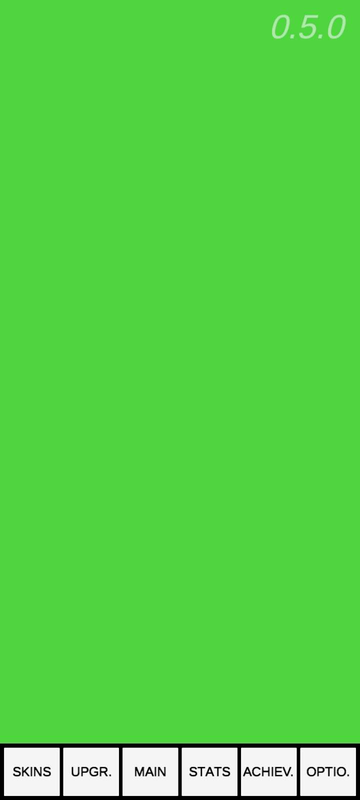
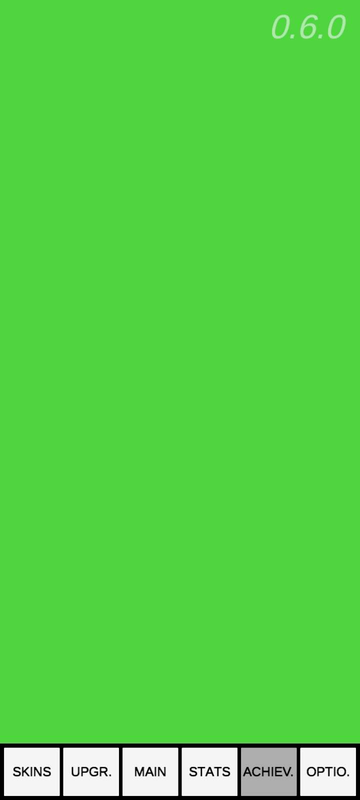
F6X THE GOLDEN TOUCH 0.6.0
Add Highlight Selected Screen Feature
Update ScreensMenu.cs

Changed region(s): [[0.6722, 0.9062, 0.825, 1.0], [0.825, 0.0312, 0.8556, 0.0625]]

diff --git a/F6X THE GOLDEN TOUCH/Assets/Scripts/Screens/ScreensMenu.cs b/F6X THE GOLDEN TOUCH/Assets/Scripts/Screens/ScreensMenu.cs
@@ -1,14 +1,65 @@
 using UnityEngine;
+using UnityEngine.UI;
 
 public class ScreensMenu : MonoBehaviour
 {
-    public GameObject[] screens;
+    [Header("Screens Menu Parameters")]
+    public Color currentScreenColor;
+
+    private int currentScreen;
+    private GameObject[] screens;
+    private GameObject[] screensButtons;
+
+    private void Awake()
+    {
+        InitializeComponents();
+        InitializeVariables();
+    }
+
+    private void InitializeComponents()
+    {
+        InitializeScreens();
+        InitializeScreensButtons();
+    }
+
+    private void InitializeScreens()
+    {
+        screens = new GameObject[6];
+        for (int i = 0; i <= 5; i++)
+            screens[i] = transform.parent.transform.GetChild(i).gameObject;
+
+    }
+
+    private void InitializeScreensButtons()
+    {
+        screensButtons = new GameObject[6];
+        for (int i = 0; i <= 5; i++)
+            screensButtons[i] = transform.GetChild(i).gameObject;
+    }
+
+    private void InitializeVariables()
+    {
+        currentScreen = 2;
+    }
 
     private void ActiveScreen(int screenNumber)
     {
-        foreach (GameObject screen in screens)
-            screen.SetActive(false);
-        screens[screenNumber].SetActive(true);
+        currentScreen = screenNumber;
+        for (int i = 0; i <= 5; i++)
+        {
+            if (i == screenNumber)
+            {
+                screens[i].SetActive(true);
+                screensButtons[i].GetComponent<Image>().color = currentScreenColor;
+                screensButtons[i].GetComponent<Button>().enabled = false;
+            }
+            else
+            {
+                screens[i].SetActive(false);
+                screensButtons[i].GetComponent<Image>().color = Color.white;
+                screensButtons[i].GetComponent<Button>().enabled = true;
+            }
+        }
     }
 
     public void ClickSkinsScreenButton()

diff --git a/README.md b/README.md
@@ -1,10 +1,12 @@
 # _F6X THE GOLDEN TOUCH_
 
-![THUMBNAIL](Resources/Img/MainScreen.png)
+![THUMBNAIL](Resources/Img/MainScreen.png) 
 ![THUMBNAIL](Resources/Img/UpgradesScreen.png)
-![THUMBNAIL](Resources/Img/StatsScreen.png)
+
+![THUMBNAIL](Resources/Img/StatsScreen.png) 
 ![THUMBNAIL](Resources/Img/AchievementsScreen.png)
-![THUMBNAIL](Resources/Img/SkinsScreen.png)
+
+![THUMBNAIL](Resources/Img/SkinsScreen.png) 
 ![THUMBNAIL](Resources/Img/OptionsScreen.png)
 
 - **Description :**
@@ -18,7 +20,7 @@
 ---
 
 - **Stack :**
-  - **F6X The Golden Touch** : `0.5.0`
+  - **F6X The Golden Touch** : `0.6.0`
   - **Android** : `8.0`
   - **Unity** : `2022.3.20f1`
   - **Console Log System** : `1.3.0`
